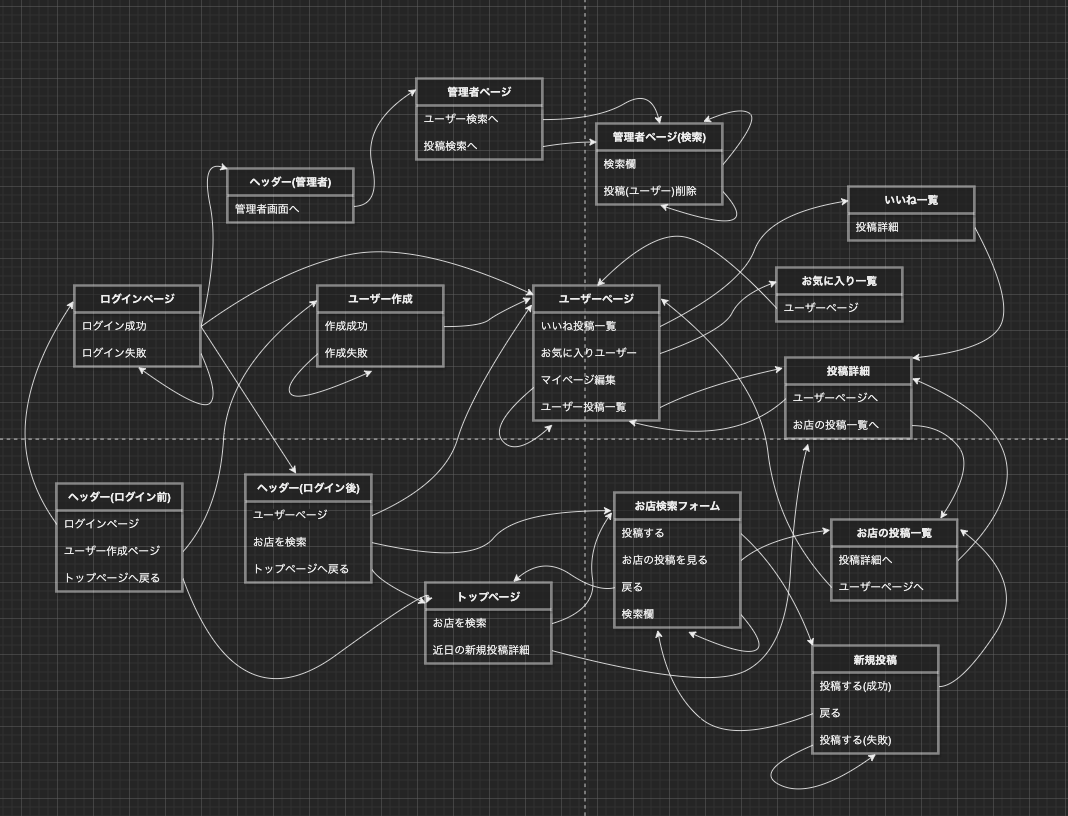
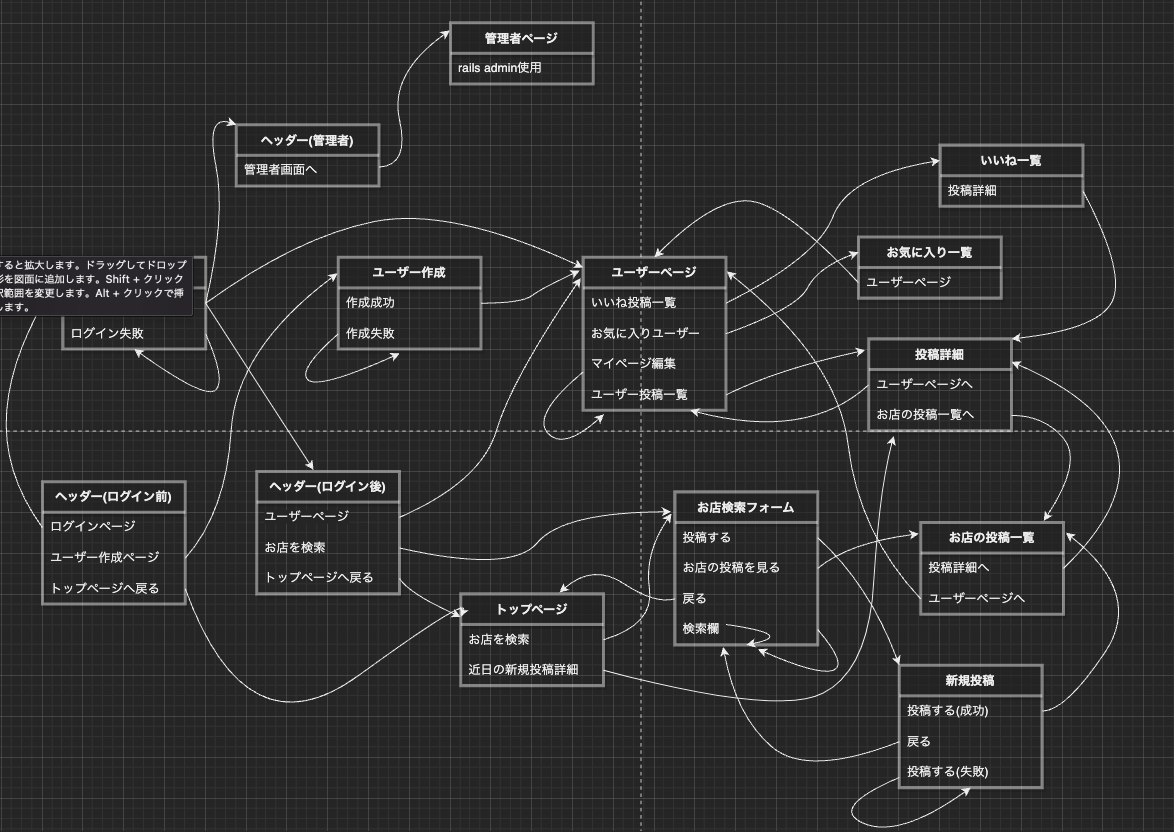
rails adminを使用するため一部変更

diff --git a/README.md b/README.md
@@ -48,8 +48,7 @@
 ### ワイヤーフレーム
 
 ![ラフ画像](img/ラフ図_1.png) 
-![ラフ画像](img/ラフ図_1.png) 
-![ラフ画像](img/ラフ図_1.png) 
+![ラフ画像](img/ラフ図_2.png) 
 
 ### 画面遷移図
 
